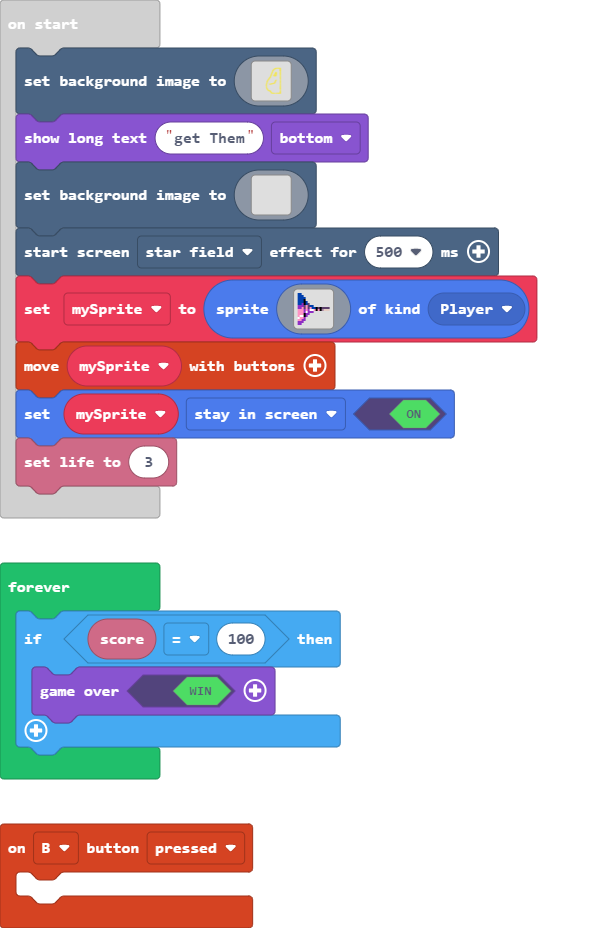
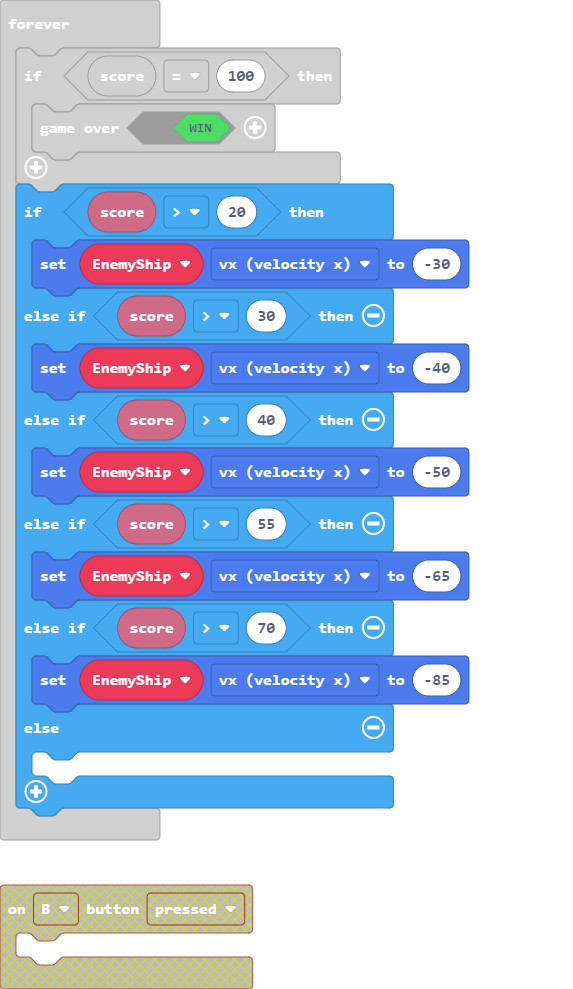
Update main.blocks, main.ts

diff --git a/main.ts b/main.ts
@@ -1,6 +1,3 @@
-controller.B.onEvent(ControllerButtonEvent.Pressed, function () {
-	
-})
 controller.A.onEvent(ControllerButtonEvent.Pressed, function () {
     projectile = sprites.createProjectileFromSprite(img`
         . . . . . . . . . . . . . . . . 
@@ -327,5 +324,18 @@ game.onUpdateInterval(2000, function () {
 forever(function () {
     if (info.score() == 100) {
         game.over(true)
+    }
+    if (info.score() > 20) {
+        EnemyShip.vx = -30
+    } else if (info.score() > 30) {
+        EnemyShip.vx = -40
+    } else if (info.score() > 40) {
+        EnemyShip.vx = -50
+    } else if (info.score() > 55) {
+        EnemyShip.vx = -65
+    } else if (info.score() > 70) {
+        EnemyShip.vx = -85
+    } else {
+    	
     }
 })
